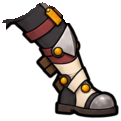
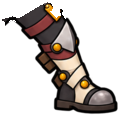
20 네온 브루노 v1.3: 골반 아래 끝 다듬기 — 무릎판 테 토막·금빛 병 토막·계단 정리(라벨만, 대기 그대로)
Claude-Session: https://claude.ai/code/session_011WxNHak8EsK79yqEoeePC7

Changed region(s): [[0.0, 0.0, 0.975, 0.9744], [0.85, 0.9231, 0.975, 0.9744], [0.525, 0.8462, 0.55, 0.8718]]

diff --git a/assets/rig/bruno-neon/rig.def.js b/assets/rig/bruno-neon/rig.def.js
@@ -1,2 +1,2 @@
 // 자동 생성: rig.json을 JS로 감싼 것. 원본은 같은 폴더의 rig.json (source/build_bruno20.py)
-window.MR_RIG_DEFS=window.MR_RIG_DEFS||{};window.MR_RIG_DEFS['bruno-neon']={"name": "bruno-neon", "version": "ff6391c7", "units": "rig px (원화 512 ×2)", "refOrigin": [506.0, 992.0], "refScale": 1.0, "refLift": 0, "parts": {"torso": {"src": "parts/torso.png", "pivot": [77.0, 82.0], "scale": 2.0}, "hips": {"src": "parts/hips.png", "pivot": [56.0, 17.0], "scale": 2.0}, "head": {"src": "parts/head.png", "pivot": [116.0, 164.0], "scale": 2.0}, "pauldron": {"src": "parts/pauldron.png", "pivot": [24.0, 20.0], "scale": 2.0}, "torsoB": {"src": "parts/torsoB.png", "pivot": [-42.0, 40.0], "scale": 2.0}, "armU": {"src": "parts/armU.png", "pivot": [67.0, 24.0], "scale": 2.0, "elbow": [10.0, 16.0]}, "armF": {"src": "parts/armF.png", "pivot": [14.0, 14.0], "scale": 2.0, "elbow": [56.0, 34.0]}, "armL": {"src": "parts/armL.png", "pivot": [23.0, 57.0], "scale": 2.0, "fist": [14.0, -8.0]}, "fistN": {"src": "parts/fistN.png", "pivot": [22.0, 22.0], "scale": 2.0}, "maceN": {"src": "parts/maceN.png", "pivot": [109.0, 222.0], "scale": 2.0}, "foreF": {"src": "parts/foreF.png", "pivot": [13.0, 46.0], "scale": 2.0}, "fistF": {"src": "parts/fistF.png", "pivot": [10.0, 49.0], "scale": 2.0}, "weapon": {"src": "parts/weapon.png", "pivot": [120.0, 470.0], "scale": 1.0, "tip": [120.0, 6.0], "tips": [[20.0, 106.0], [220.0, 106.0]], "guard": [120.0, 199.4], "pommel": [120.0, 505.0]}, "face_happy": {"src": "parts/face_happy.png", "pivot": [116.0, 164.0], "scale": 2.0}, "face_angry": {"src": "parts/face_angry.png", "pivot": [116.0, 164.0], "scale": 2.0}, "face_focus": {"src": "parts/face_focus.png", "pivot": [116.0, 164.0], "scale": 2.0}, "face_shout": {"src": "parts/face_shout.png", "pivot": [116.0, 164.0], "scale": 2.0}, "face_effort": {"src": "parts/face_effort.png", "pivot": [116.0, 164.0], "scale": 2.0}, "face_half": {"src": "parts/face_half.png", "pivot": [116.0, 164.0], "scale": 2.0}, "face_closed": {"src": "parts/face_closed.png", "pivot": [116.0, 164.0], "scale": 2.0}, "bootStandN": {"src": "parts/bootStandN.png", "pivot": [33.0, 89.0], "scale": 2.0}, "bootStandF": {"src": "parts/bootStandF.png", "pivot": [78.0, 88.0], "scale": 2.0}, "bootNRun": {"src": "parts/bootNRun.png", "pivot": [18.2, 18.0], "scale": 2.0}, "bootFRun": {"src": "parts/bootFRun.png", "pivot": [18.2, 16.0], "scale": 2.0}, "thighN": {"src": "parts/thighN.png", "pivot": [0, 0], "scale": 1}, "thighF": {"src": "parts/thighF.png", "pivot": [0, 0], "scale": 1}, "shinN": {"src": "parts/shinN.png", "pivot": [0, 0], "scale": 1}, "shinF": {"src": "parts/shinF.png", "pivot": [0, 0], "scale": 1}, "gF": {"src": "parts/fistF.png", "pivot": [10.0, 49.0], "grip": [22.0, 26.0], "elbow": [10.0, 49.0], "wrist": [10.0, 49.0], "scale": 2.0, "shaftDir": [0.5413, -0.8408], "fore": "foreFa", "foreBone": "foreFb", "foreDir": [-0.3807, 0.9247]}, "foreFa": {"src": "parts/foreF.png", "pivot": [27.0, 12.0], "elbow": [13.0, 46.0], "scale": 2.0}}, "bones": [{"name": "root", "parent": null, "pos": [0, 0]}, {"name": "hip", "parent": "root", "pos": [-2.0, -240.0]}, {"name": "skirt", "parent": "hip", "pos": [0.0, 0.0], "part": "hips"}, {"name": "torso", "parent": "hip", "pos": [0.0, 0.0], "part": "torso"}, {"name": "head", "parent": "torso", "pos": [24.0, -116.0], "part": "head"}, {"name": "armF", "parent": "torso", "pos": [62.0, -92.0], "part": "armF"}, {"name": "foreF", "parent": "armF", "pos": [84.0, 40.0], "part": "foreF"}, {"name": "fistF", "parent": "foreF", "pos": [28.0, -68.0], "part": "fistF"}, {"name": "weapon", "parent": "fistF", "pos": [24.0, -46.0], "rot": 0.572, "part": "weapon"}, {"name": "armU", "parent": "torso", "pos": [-90.0, -124.0], "part": "armU"}, {"name": "armL", "parent": "armU", "pos": [-114.0, -16.0], "rot": 0.3, "part": "armL"}, {"name": "maceN", "parent": "armL", "pos": [-18.0, -130.0], "part": "maceN"}, {"name": "fistN", "parent": "armL", "pos": [-18.0, -130.0], "part": "fistN"}, {"name": "foreFb", "parent": "torso", "pos": [174.0, -120.0]}, {"name": "cape", "parent": "torso", "pos": [24.0, -116.0]}, {"name": "scarf", "parent": "torso", "pos": [24.0, -116.0]}, {"name": "pouch", "parent": "hip", "pos": [0.0, 0.0]}, {"name": "pauldron", "parent": "torso", "pos": [-90.0, -124.0], "part": "pauldron"}, {"name": "pauldronF", "parent": "torso", "pos": [62.0, -92.0]}, {"name": "torsoB", "parent": "torso", "pos": [0.0, 0.0], "part": "torsoB"}], "legs": {"hip": [0, 22.0], "thigh": 96.2, "shin": 96.8, "thighImg": {"part": "thighN", "a": [15.5, 5.0], "b": [15.5, 52.0], "w": 1.0}, "shinImg": {"part": "shinN", "a": [17.0, 10.0], "b": [17.0, 57.0], "w": 1.0}, "boot": {"part": "bootNRun", "sole": [[-16.2, 29.0], [-4.2, 29.0], [9.8, 30.0], [24.8, 31.0], [36.8, 29.0]], "ankleRange": [-1.2, 1.4], "runLock": 0.0}, "near": {"x": -128.0, "hipX": -48.0, "runX": -48.0, "shade": 0, "thighImg": {"part": "thighN", "a": [15.5, 5.0], "b": [15.5, 52.0], "w": 1.0}, "shinImg": {"part": "shinN", "a": [17.0, 10.0], "b": [17.0, 57.0], "w": 1.0}, "runBoot": "bootNRun", "stand": {"fade": [0.05, 0.1], "thighImg": {"part": "thighN", "a": [15.5, 5.0], "b": [15.5, 52.0], "w": 0.001}, "shinImg": {"part": "shinN", "a": [17.0, 10.0], "b": [17.0, 57.0], "w": 0.001}, "boot": {"part": "bootStandN", "sole": [[-29.0, 28.0], [-18.0, 31.0], [-13.0, 31.0], [40.0, -32.0], [56.0, -54.0]]}}}, "far": {"x": 132.0, "hipX": 32.0, "runX": 32.0, "shade": 0, "thighImg": {"part": "thighF", "a": [14.5, 8.0], "b": [14.5, 55.0], "w": 1.0}, "shinImg": {"part": "shinF", "a": [16.5, 11.0], "b": [16.5, 58.0], "w": 1.0}, "runBoot": "bootFRun", "stand": {"fade": [0.05, 0.1], "thighImg": {"part": "thighF", "a": [14.5, 8.0], "b": [14.5, 55.0], "w": 0.001}, "shinImg": {"part": "shinF", "a": [16.5, 11.0], "b": [16.5, 58.0], "w": 0.001}, "boot": {"part": "bootStandF", "sole": [[-70.0, -61.0], [-50.0, -47.0], [13.0, 29.0], [18.0, 29.0], [38.0, 26.0]]}}}}, "draw": ["legFar", "legNear", "torsoB", "armF", "foreF", "skirt", "torso", "armU", "pauldron", "weapon", "fistF", "head", "maceN", "armL", "fistN"], "hidden": [], "faces": {"happy": "face_happy", "angry": "face_angry", "focus": "face_focus", "shout": "face_shout", "effort": "face_effort"}, "blinkFaces": {"half": "face_half", "closed": "face_closed"}, "gait": {"stance": 0.26, "strideBase": 40, "strideK": 0.12, "hipBase": 6, "bob": 8, "lean": 0.1, "headBob": 3, "kneeLift": 0.7, "heelKick": 0.5, "dropCap": 16, "swingReach": 0.05, "landAng": -0.04, "elbowRun": 0.12, "armSwing": 0.06, "armBias": 0.0, "headRun": 0.05}, "carrySwing": 0.15, "wristRange": 0.2, "dropLift": 8, "bounce": [], "metrics": {"bodyHeight": 678, "note": "rig units; 상투 위(y157)~발바닥(496) ×2, 철퇴 제외"}, "ui": {"attack": "smash", "touch": "hop"}, "swordGrip": {"tipDepth": 6, "near": {"upper": "armF", "carry": "gF", "pieces": []}, "far": {"upper": "armU", "pieces": ["armL"], "sPref": 0}, "stretchMax": 1.05, "shoulderPush": 0}, "drawA": ["legFar", "legNear", "torsoB", "armF", "foreFb", "skirt", "torso", "armU", "pauldron", "weapon", "foreF", "head", "maceN", "armL", "fistN"], "actions": {"smash": {"kind": "sword", "rigid": true, "orderAlways": true, "dur": 1.0, "hitAt": 0.28, "hitStop": 0.05, "cancelAt": 0.8, "w": [[0, 1]], "reach": [[0, 0]], "nPiece": [[0, "gF"]], "nUpper": [[0, "armF"]], "armIK": [[0, 1]], "ikSideK": {"N": [[0, 1]]}, "gx": [[0.0, 198.0, "io"], [0.1, 176.0, "io"], [0.19, 163.0, "io"], [0.2, 160.84, "io"], [0.28, 150.0, "io"], [0.34, 118.0, "io"], [0.36, 102.6, "io"], [0.4, 86.0, "io"], [0.42, 115.34, "io"], [0.47, 234.0, "io"], [0.48, 234.66, "io"], [0.5, 238.72, "io"], [0.54, 246.0, "io"], [0.62, 242.42, "io"], [0.64, 242.0, "io"], [0.8, 220.5, "io"], [0.84, 218.0, "io"], [1.0, 198.0, "io"]], "gy": [[0.0, -166.0, "io"], [0.1, -170.0, "io"], [0.19, -198.94, "io"], [0.2, -203.48, "io"], [0.28, -234.0, "io"], [0.34, -234.62, "io"], [0.36, -235.92, "io"], [0.4, -235.04, "io"], [0.42, -218.94, "io"], [0.47, -165.4, "io"], [0.48, -156.48, "io"], [0.5, -100.38, "io"], [0.54, -2.0, "io"], [0.62, -5.58, "io"], [0.64, -6.0, "io"], [0.8, -117.1, "io"], [0.84, -130.0, "io"], [1.0, -166.0, "io"]], "sa": [[0.0, -0.9989, "io"], [0.1, -1.117, "io"], [0.19, -1.3265, "io"], [0.2, -1.3612, "io"], [0.28, -1.5359, "io"], [0.34, -1.7453, "io"], [0.36, -1.8462, "io"], [0.4, -1.9548, "io"], [0.42, -1.723, "io"], [0.47, -0.7854, "io"], [0.48, -0.7283, "io"], [0.5, -0.3801, "io"], [0.54, 0.2443, "io"], [0.62, 0.2601, "io"], [0.64, 0.2618, "io"], [0.8, -0.6295, "io"], [0.84, -0.733, "io"], [1.0, -0.9989, "io"]], "lean": [[0.0, 0.0, "io"], [0.1, -0.06, "io"], [0.19, 0.0372, "io"], [0.2, 0.04, "io"], [0.28, 0.14, "io"], [0.34, 0.0894, "io"], [0.36, 0.08, "io"], [0.4, 0.0059, "io"], [0.42, -0.02, "io"], [0.47, 0.0726, "io"], [0.48, 0.08, "io"], [0.5, 0.1059, "io"], [0.54, 0.18, "io"], [0.62, 0.1262, "io"], [0.64, 0.12, "io"], [0.8, 0.0304, "io"], [0.84, 0.02, "io"], [1.0, 0.0, "io"]], "hipY": [[0.0, 0.0, "io"], [0.1, 6.0, "io"], [0.19, 7.94, "io"], [0.2, 8.0, "io"], [0.28, 16.0, "io"], [0.34, 12.62, "io"], [0.36, 12.0, "io"], [0.4, 9.04, "io"], [0.42, 8.0, "io"], [0.47, 15.4, "io"], [0.48, 16.0, "io"], [0.5, 18.08, "io"], [0.54, 24.0, "io"], [0.62, 20.42, "io"], [0.64, 20.0, "io"], [0.8, 5.66, "io"], [0.84, 4.0, "io"], [1.0, 0.0, "io"]], "head": [[0, 0], [0.1, -0.05, "io"], [0.28, 0.06, "io"], [0.4, -0.03, "io"], [0.54, 0.07, "io"], [0.8, 0]], "freeArm": true, "fuA": [[0.0, 0.0, "io"], [0.1, -0.1143, "io"], [0.19, 0.155, "io"], [0.2, 0.0756, "io"], [0.28, -2.1818, "io"], [0.34, -2.0963, "io"], [0.36, -1.5394, "io"], [0.4, 0.099, "io"], [0.42, 0.1231, "io"], [0.47, 0.0186, "io"], [0.48, 0.0093, "io"], [0.5, -0.0185, "io"], [0.54, -0.1152, "io"], [0.62, -0.1261, "io"], [0.64, -0.1207, "io"], [0.8, -0.0564, "io"], [0.84, -0.0433, "io"], [1.0, 0.0, "io"]], "flA": [[0.0, 0.0, "io"], [0.1, -0.3838, "io"], [0.19, 0.3318, "io"], [0.2, 0.4575, "io"], [0.28, 3.997, "io"], [0.34, 3.997, "io"], [0.36, 3.0694, "io"], [0.4, 0.4191, "io"], [0.42, 0.3882, "io"], [0.47, 0.1864, "io"], [0.48, 0.1532, "io"], [0.5, 0.1223, "io"], [0.54, 0.0816, "io"], [0.62, -0.0347, "io"], [0.64, -0.0362, "io"], [0.8, -0.0784, "io"], [0.84, -0.0702, "io"], [1.0, 0.0, "io"]], "face": [[0, "angry"], [0.24, "shout"], [0.38, "angry"], [0.5, "shout"], [0.7, "focus"], [0.9, null]], "order": [[0, "drawA"]], "nearLift": [[0, 0], [0.03, 0, "io"], [0.09, 10, "io"], [0.15, 0]], "farLift": [[0, 0], [0.17, 0, "io"], [0.23, 10, "io"], [0.29, 0]], "aDamp": 9, "standStep": true}}, "cutHold": 0.1, "gameRef": {"refOrigin": [259.5, 496.0], "refScale": 2.0, "refLift": 0, "note": "게임 그림 char_0020.png(512) = 0번 합격 원화(ref512). x = 도감 칸(fitArt 중심 258.5, index.html measureBox 와 같은 계산)에서 골반(hip x 252)이 가운데"}, "note": "20 네온 브루노 v1(대기·달리기·번갈아 내려찍기). 10 러스트 브루노 v1.2 구조. 조각 = 원화를 부품별로 나눔(seg20.py) + 가려진 곳 = 팔·철퇴만 지운 원화(프롬프트 2·3: sheets/nonear_0614·nofar_0623), 시트 = 표정·깜빡임·달리는 다리·부츠·철퇴 자루 끝"};
+window.MR_RIG_DEFS=window.MR_RIG_DEFS||{};window.MR_RIG_DEFS['bruno-neon']={"name": "bruno-neon", "version": "23d59932", "units": "rig px (원화 512 ×2)", "refOrigin": [506.0, 992.0], "refScale": 1.0, "refLift": 0, "parts": {"torso": {"src": "parts/torso.png", "pivot": [77.0, 82.0], "scale": 2.0}, "hips": {"src": "parts/hips.png", "pivot": [57.0, 17.0], "scale": 2.0}, "head": {"src": "parts/head.png", "pivot": [116.0, 164.0], "scale": 2.0}, "pauldron": {"src": "parts/pauldron.png", "pivot": [24.0, 20.0], "scale": 2.0}, "torsoB": {"src": "parts/torsoB.png", "pivot": [-42.0, 40.0], "scale": 2.0}, "armU": {"src": "parts/armU.png", "pivot": [67.0, 24.0], "scale": 2.0, "elbow": [10.0, 16.0]}, "armF": {"src": "parts/armF.png", "pivot": [14.0, 14.0], "scale": 2.0, "elbow": [56.0, 34.0]}, "armL": {"src": "parts/armL.png", "pivot": [23.0, 57.0], "scale": 2.0, "fist": [14.0, -8.0]}, "fistN": {"src": "parts/fistN.png", "pivot": [22.0, 22.0], "scale": 2.0}, "maceN": {"src": "parts/maceN.png", "pivot": [109.0, 222.0], "scale": 2.0}, "foreF": {"src": "parts/foreF.png", "pivot": [13.0, 46.0], "scale": 2.0}, "fistF": {"src": "parts/fistF.png", "pivot": [10.0, 49.0], "scale": 2.0}, "weapon": {"src": "parts/weapon.png", "pivot": [120.0, 470.0], "scale": 1.0, "tip": [120.0, 6.0], "tips": [[20.0, 106.0], [220.0, 106.0]], "guard": [120.0, 199.4], "pommel": [120.0, 505.0]}, "face_happy": {"src": "parts/face_happy.png", "pivot": [116.0, 164.0], "scale": 2.0}, "face_angry": {"src": "parts/face_angry.png", "pivot": [116.0, 164.0], "scale": 2.0}, "face_focus": {"src": "parts/face_focus.png", "pivot": [116.0, 164.0], "scale": 2.0}, "face_shout": {"src": "parts/face_shout.png", "pivot": [116.0, 164.0], "scale": 2.0}, "face_effort": {"src": "parts/face_effort.png", "pivot": [116.0, 164.0], "scale": 2.0}, "face_half": {"src": "parts/face_half.png", "pivot": [116.0, 164.0], "scale": 2.0}, "face_closed": {"src": "parts/face_closed.png", "pivot": [116.0, 164.0], "scale": 2.0}, "bootStandN": {"src": "parts/bootStandN.png", "pivot": [33.0, 82.0], "scale": 2.0}, "bootStandF": {"src": "parts/bootStandF.png", "pivot": [77.0, 84.0], "scale": 2.0}, "bootNRun": {"src": "parts/bootNRun.png", "pivot": [18.2, 18.0], "scale": 2.0}, "bootFRun": {"src": "parts/bootFRun.png", "pivot": [18.2, 16.0], "scale": 2.0}, "thighN": {"src": "parts/thighN.png", "pivot": [0, 0], "scale": 1}, "thighF": {"src": "parts/thighF.png", "pivot": [0, 0], "scale": 1}, "shinN": {"src": "parts/shinN.png", "pivot": [0, 0], "scale": 1}, "shinF": {"src": "parts/shinF.png", "pivot": [0, 0], "scale": 1}, "gF": {"src": "parts/fistF.png", "pivot": [10.0, 49.0], "grip": [22.0, 26.0], "elbow": [10.0, 49.0], "wrist": [10.0, 49.0], "scale": 2.0, "shaftDir": [0.5413, -0.8408], "fore": "foreFa", "foreBone": "foreFb", "foreDir": [-0.3807, 0.9247]}, "foreFa": {"src": "parts/foreF.png", "pivot": [27.0, 12.0], "elbow": [13.0, 46.0], "scale": 2.0}}, "bones": [{"name": "root", "parent": null, "pos": [0, 0]}, {"name": "hip", "parent": "root", "pos": [-2.0, -240.0]}, {"name": "skirt", "parent": "hip", "pos": [0.0, 0.0], "part": "hips"}, {"name": "torso", "parent": "hip", "pos": [0.0, 0.0], "part": "torso"}, {"name": "head", "parent": "torso", "pos": [24.0, -116.0], "part": "head"}, {"name": "armF", "parent": "torso", "pos": [62.0, -92.0], "part": "armF"}, {"name": "foreF", "parent": "armF", "pos": [84.0, 40.0], "part": "foreF"}, {"name": "fistF", "parent": "foreF", "pos": [28.0, -68.0], "part": "fistF"}, {"name": "weapon", "parent": "fistF", "pos": [24.0, -46.0], "rot": 0.572, "part": "weapon"}, {"name": "armU", "parent": "torso", "pos": [-90.0, -124.0], "part": "armU"}, {"name": "armL", "parent": "armU", "pos": [-114.0, -16.0], "rot": 0.3, "part": "armL"}, {"name": "maceN", "parent": "armL", "pos": [-18.0, -130.0], "part": "maceN"}, {"name": "fistN", "parent": "armL", "pos": [-18.0, -130.0], "part": "fistN"}, {"name": "foreFb", "parent": "torso", "pos": [174.0, -120.0]}, {"name": "cape", "parent": "torso", "pos": [24.0, -116.0]}, {"name": "scarf", "parent": "torso", "pos": [24.0, -116.0]}, {"name": "pouch", "parent": "hip", "pos": [0.0, 0.0]}, {"name": "pauldron", "parent": "torso", "pos": [-90.0, -124.0], "part": "pauldron"}, {"name": "pauldronF", "parent": "torso", "pos": [62.0, -92.0]}, {"name": "torsoB", "parent": "torso", "pos": [0.0, 0.0], "part": "torsoB"}], "legs": {"hip": [0, 22.0], "thigh": 96.2, "shin": 96.8, "thighImg": {"part": "thighN", "a": [15.5, 5.0], "b": [15.5, 52.0], "w": 1.0}, "shinImg": {"part": "shinN", "a": [17.0, 10.0], "b": [17.0, 57.0], "w": 1.0}, "boot": {"part": "bootNRun", "sole": [[-16.2, 29.0], [-4.2, 29.0], [9.8, 30.0], [24.8, 31.0], [36.8, 29.0]], "ankleRange": [-1.2, 1.4], "runLock": 0.0}, "near": {"x": -128.0, "hipX": -48.0, "runX": -48.0, "shade": 0, "thighImg": {"part": "thighN", "a": [15.5, 5.0], "b": [15.5, 52.0], "w": 1.0}, "shinImg": {"part": "shinN", "a": [17.0, 10.0], "b": [17.0, 57.0], "w": 1.0}, "runBoot": "bootNRun", "stand": {"fade": [0.05, 0.1], "thighImg": {"part": "thighN", "a": [15.5, 5.0], "b": [15.5, 52.0], "w": 0.001}, "shinImg": {"part": "shinN", "a": [17.0, 10.0], "b": [17.0, 57.0], "w": 0.001}, "boot": {"part": "bootStandN", "sole": [[-29.0, 28.0], [-18.0, 31.0], [-13.0, 31.0], [40.0, -32.0], [56.0, -54.0]]}}}, "far": {"x": 132.0, "hipX": 32.0, "runX": 32.0, "shade": 0, "thighImg": {"part": "thighF", "a": [14.5, 8.0], "b": [14.5, 55.0], "w": 1.0}, "shinImg": {"part": "shinF", "a": [16.5, 11.0], "b": [16.5, 58.0], "w": 1.0}, "runBoot": "bootFRun", "stand": {"fade": [0.05, 0.1], "thighImg": {"part": "thighF", "a": [14.5, 8.0], "b": [14.5, 55.0], "w": 0.001}, "shinImg": {"part": "shinF", "a": [16.5, 11.0], "b": [16.5, 58.0], "w": 0.001}, "boot": {"part": "bootStandF", "sole": [[-70.0, -61.0], [-50.0, -47.0], [13.0, 29.0], [18.0, 29.0], [38.0, 26.0]]}}}}, "draw": ["legFar", "legNear", "torsoB", "armF", "foreF", "skirt", "torso", "armU", "pauldron", "weapon", "fistF", "head", "maceN", "armL", "fistN"], "hidden": [], "faces": {"happy": "face_happy", "angry": "face_angry", "focus": "face_focus", "shout": "face_shout", "effort": "face_effort"}, "blinkFaces": {"half": "face_half", "closed": "face_closed"}, "gait": {"stance": 0.26, "strideBase": 40, "strideK": 0.12, "hipBase": 6, "bob": 8, "lean": 0.1, "headBob": 3, "kneeLift": 0.7, "heelKick": 0.5, "dropCap": 16, "swingReach": 0.05, "landAng": -0.04, "elbowRun": 0.12, "armSwing": 0.06, "armBias": 0.0, "headRun": 0.05}, "carrySwing": 0.15, "wristRange": 0.2, "dropLift": 8, "bounce": [], "metrics": {"bodyHeight": 678, "note": "rig units; 상투 위(y157)~발바닥(496) ×2, 철퇴 제외"}, "ui": {"attack": "smash", "touch": "hop"}, "swordGrip": {"tipDepth": 6, "near": {"upper": "armF", "carry": "gF", "pieces": []}, "far": {"upper": "armU", "pieces": ["armL"], "sPref": 0}, "stretchMax": 1.05, "shoulderPush": 0}, "drawA": ["legFar", "legNear", "torsoB", "armF", "foreFb", "skirt", "torso", "armU", "pauldron", "weapon", "foreF", "head", "maceN", "armL", "fistN"], "actions": {"smash": {"kind": "sword", "rigid": true, "orderAlways": true, "dur": 1.0, "hitAt": 0.28, "hitStop": 0.05, "cancelAt": 0.8, "w": [[0, 1]], "reach": [[0, 0]], "nPiece": [[0, "gF"]], "nUpper": [[0, "armF"]], "armIK": [[0, 1]], "ikSideK": {"N": [[0, 1]]}, "gx": [[0.0, 198.0, "io"], [0.1, 176.0, "io"], [0.19, 163.0, "io"], [0.2, 160.84, "io"], [0.28, 150.0, "io"], [0.34, 118.0, "io"], [0.36, 102.6, "io"], [0.4, 86.0, "io"], [0.42, 115.34, "io"], [0.47, 234.0, "io"], [0.48, 234.66, "io"], [0.5, 238.72, "io"], [0.54, 246.0, "io"], [0.62, 242.42, "io"], [0.64, 242.0, "io"], [0.8, 220.5, "io"], [0.84, 218.0, "io"], [1.0, 198.0, "io"]], "gy": [[0.0, -166.0, "io"], [0.1, -170.0, "io"], [0.19, -198.94, "io"], [0.2, -203.48, "io"], [0.28, -234.0, "io"], [0.34, -234.62, "io"], [0.36, -235.92, "io"], [0.4, -235.04, "io"], [0.42, -218.94, "io"], [0.47, -165.4, "io"], [0.48, -156.48, "io"], [0.5, -100.38, "io"], [0.54, -2.0, "io"], [0.62, -5.58, "io"], [0.64, -6.0, "io"], [0.8, -117.1, "io"], [0.84, -130.0, "io"], [1.0, -166.0, "io"]], "sa": [[0.0, -0.9989, "io"], [0.1, -1.117, "io"], [0.19, -1.3265, "io"], [0.2, -1.3612, "io"], [0.28, -1.5359, "io"], [0.34, -1.7453, "io"], [0.36, -1.8462, "io"], [0.4, -1.9548, "io"], [0.42, -1.723, "io"], [0.47, -0.7854, "io"], [0.48, -0.7283, "io"], [0.5, -0.3801, "io"], [0.54, 0.2443, "io"], [0.62, 0.2601, "io"], [0.64, 0.2618, "io"], [0.8, -0.6295, "io"], [0.84, -0.733, "io"], [1.0, -0.9989, "io"]], "lean": [[0.0, 0.0, "io"], [0.1, -0.06, "io"], [0.19, 0.0372, "io"], [0.2, 0.04, "io"], [0.28, 0.14, "io"], [0.34, 0.0894, "io"], [0.36, 0.08, "io"], [0.4, 0.0059, "io"], [0.42, -0.02, "io"], [0.47, 0.0726, "io"], [0.48, 0.08, "io"], [0.5, 0.1059, "io"], [0.54, 0.18, "io"], [0.62, 0.1262, "io"], [0.64, 0.12, "io"], [0.8, 0.0304, "io"], [0.84, 0.02, "io"], [1.0, 0.0, "io"]], "hipY": [[0.0, 0.0, "io"], [0.1, 6.0, "io"], [0.19, 7.94, "io"], [0.2, 8.0, "io"], [0.28, 16.0, "io"], [0.34, 12.62, "io"], [0.36, 12.0, "io"], [0.4, 9.04, "io"], [0.42, 8.0, "io"], [0.47, 15.4, "io"], [0.48, 16.0, "io"], [0.5, 18.08, "io"], [0.54, 24.0, "io"], [0.62, 20.42, "io"], [0.64, 20.0, "io"], [0.8, 5.66, "io"], [0.84, 4.0, "io"], [1.0, 0.0, "io"]], "head": [[0, 0], [0.1, -0.05, "io"], [0.28, 0.06, "io"], [0.4, -0.03, "io"], [0.54, 0.07, "io"], [0.8, 0]], "freeArm": true, "fuA": [[0.0, 0.0, "io"], [0.1, -0.1143, "io"], [0.19, 0.155, "io"], [0.2, 0.0756, "io"], [0.28, -2.1818, "io"], [0.34, -2.0963, "io"], [0.36, -1.5394, "io"], [0.4, 0.099, "io"], [0.42, 0.1231, "io"], [0.47, 0.0186, "io"], [0.48, 0.0093, "io"], [0.5, -0.0185, "io"], [0.54, -0.1152, "io"], [0.62, -0.1261, "io"], [0.64, -0.1207, "io"], [0.8, -0.0564, "io"], [0.84, -0.0433, "io"], [1.0, 0.0, "io"]], "flA": [[0.0, 0.0, "io"], [0.1, -0.3838, "io"], [0.19, 0.3318, "io"], [0.2, 0.4575, "io"], [0.28, 3.997, "io"], [0.34, 3.997, "io"], [0.36, 3.0694, "io"], [0.4, 0.4191, "io"], [0.42, 0.3882, "io"], [0.47, 0.1864, "io"], [0.48, 0.1532, "io"], [0.5, 0.1223, "io"], [0.54, 0.0816, "io"], [0.62, -0.0347, "io"], [0.64, -0.0362, "io"], [0.8, -0.0784, "io"], [0.84, -0.0702, "io"], [1.0, 0.0, "io"]], "face": [[0, "angry"], [0.24, "shout"], [0.38, "angry"], [0.5, "shout"], [0.7, "focus"], [0.9, null]], "order": [[0, "drawA"]], "nearLift": [[0, 0], [0.03, 0, "io"], [0.09, 10, "io"], [0.15, 0]], "farLift": [[0, 0], [0.17, 0, "io"], [0.23, 10, "io"], [0.29, 0]], "aDamp": 9, "standStep": true}}, "cutHold": 0.1, "gameRef": {"refOrigin": [259.5, 496.0], "refScale": 2.0, "refLift": 0, "note": "게임 그림 char_0020.png(512) = 0번 합격 원화(ref512). x = 도감 칸(fitArt 중심 258.5, index.html measureBox 와 같은 계산)에서 골반(hip x 252)이 가운데"}, "note": "20 네온 브루노 v1(대기·달리기·번갈아 내려찍기). 10 러스트 브루노 v1.2 구조. 조각 = 원화를 부품별로 나눔(seg20.py) + 가려진 곳 = 팔·철퇴만 지운 원화(프롬프트 2·3: sheets/nonear_0614·nofar_0623), 시트 = 표정·깜빡임·달리는 다리·부츠·철퇴 자루 끝"};

diff --git a/assets/rig/bruno-neon/source/build_bruno20.py b/assets/rig/bruno-neon/source/build_bruno20.py
@@ -1,4 +1,4 @@
-"""20 네온 브루노 리그 조립 v1.2(달리기 부츠 발목 점 = 원화 발목 높이 · 달리기 다리일 때 발목 고정 boot.runLock) — 10 러스트 브루노 v1.2(build_bruno10) 구조, 공격 = 번갈아 내려찍기(tools/plan_alt20.py)
+"""20 네온 브루노 리그 조립 v1.3(달리기 부츠 발목 점 = 원화 발목 높이 · 달리기 다리일 때 발목 고정 boot.runLock · 골반 아래 끝 다듬기) — 10 러스트 브루노 v1.2(build_bruno10) 구조, 공격 = 번갈아 내려찍기(tools/plan_alt20.py)
 입력: ref512.png(0번 합격 원화 = 게임 char_0020) · sheets/nonear_0614.png·nofar_0623.png(팔·철퇴만 지운 원화) · work/labels.npy(seg20.py) · pieces/(조각 시트 19칸, cut20.py) · measure20.json · review/plan_alt20.json
 출력: ../rig.json · ../rig.def.js · ../parts/*.png
 실행: cd source && python3 -I cut20.py && python3 -I seg20.py && python3 -I tools/plan_alt20.py && python3 -I build_bruno20.py
@@ -24,6 +24,51 @@ def desp(a):
 def sheet(n): return desp(np.array(Image.open(os.path.join(PC, n + '.png')).convert('RGBA')))
 def art(mask): a = RA.copy(); a[..., 3] = np.where(mask, a[..., 3], 0); return a
 def dil(m, r): return cv2.dilate(m.astype(np.uint8), cv2.getStructuringElement(cv2.MORPH_ELLIPSE, (2 * r + 1, 2 * r + 1))) > 0
+# ---------------- 골반 아래 끝 다듬기 (DHL v1.2 검수: 달릴 때 골반 아래가 덜 잘림) ----------------
+#   골반 라벨 아래 끝이 가까운 무릎판 테 윗부분(회색 + 밝은 윗가장자리)과 먼 허리 금빛 병 윗부분을 가로질러, 달리면 골반에 회색 쐐기·밝은 점선·금 줄이 남았음
+#   ① 가까운 무릎판 테: 골반 라벨의 회색(밝기 ≥ 80 · 채도 < 30, x < 240 · y ≥ 388) → 가까운 다리, 그 칸 아래(테 윗선 밑)도 다리로 — 테 윗선 위 어두운 외곽선은 골반에 남아 골반 아래 끝 선이 됨
+#   ② 먼 허리 금빛 병(허리띠에 달린 것): 금빛 덩어리 + 둘레 어두운 외곽선 → 골반 통째(달리면 허리에 매달림)
+def _fix_hips():
+    lum = RA[..., :3].astype(int).mean(-1); sat = RA[..., :3].max(-1).astype(int) - RA[..., :3].min(-1); H, N_, F_ = LID['hips'], LID['legN'], LID['legF']
+    g = (LAB == H) & (lum >= 80) & (sat < 30) & (XX < 240) & (YY >= 388) & (RA[..., 3] > 128)
+    n1 = int(g.sum()); LAB[g] = N_; n2 = 0
+    for x in range(180, 240):
+        ys_ = np.nonzero(g[:, x])[0]
+        if len(ys_): col = (LAB[:, x] == H) & (np.arange(512) > ys_.min()); n2 += int(col.sum()); LAB[col, x] = N_
+    gold = (RA[..., 0] > 140) & (RA[..., 1] > 60) & (RA[..., 2] < 70) & (RA[..., 0].astype(int) - RA[..., 2] > 100) & (XX >= 278) & (XX <= 310) & (YY >= 378) & (YY <= 412)
+    nc, cc = cv2.connectedComponents(gold.astype(np.uint8), 8); big = np.zeros_like(gold)
+    for i in range(1, nc):
+        if (cc == i).sum() >= 30: big |= cc == i
+    vial = (big | (dil(big, 2) & (lum < 60))) & ((LAB == F_) | (LAB == H)); n3 = int((vial & (LAB != H)).sum()); LAB[vial] = H
+    # ③ 골반 아래 끝 = 정한 선 c(x)(그 위 = 골반, 아래 = 다리): 가까운 쪽은 무릎판 테 윗선(원화 외곽선이 골반 아래 끝 선) · 가랑이는 원화 실루엣 아래 끝(가랑이 V 외곽선까지) ·
+    #    그 사이(가까운 테 오른쪽 ~ 가랑이, 가랑이 ~ 먼 허벅지)는 곧은 선 — 바지를 가로지르는 곳이라 2줄 옅게(달리면 시트 허벅지 위에 부드럽게)
+    op = RA[..., 3] >= 128; gr = (lum >= 80) & (sat < 30) & (RA[..., 3] > 200)
+    def gtop(x): ys_ = np.nonzero(gr[386:410, x])[0]; return 386 + int(ys_.min()) if len(ys_) else None
+    def sil(x): ys_ = np.nonzero(~op[390:425, x])[0]; return 390 + int(ys_.min()) if len(ys_) else None
+    c = {}
+    for x in range(190, 200): c[x] = 396
+    for x in range(200, 232): g_ = gtop(x); c[x] = g_ if g_ is not None and g_ < 402 else 398
+    for x in range(232, 246): c[x] = 398 + (x - 232) * (405 - 398) / 14.0
+    for x in range(246, 259): c[x] = float(min(sil(x) or 405, 405))   # 가랑이 V 꼭짓점 외곽선까지만(V 팔 외곽선은 다리)
+    for x in range(259, 285): c[x] = 406 + (x - 259) * (391 - 406) / 25.0
+    n4 = n5 = 0; col = np.arange(512)
+    for x, v in c.items():
+        yb = int(np.ceil(v)) - 1   # yb 까지 골반
+        dn = (LAB[:, x] == H) & (col > yb) & (col <= 415); LAB[dn, x] = N_ if x < 252 else F_; n4 += int(dn.sum())
+        up = ((LAB[:, x] == N_) | (LAB[:, x] == F_)) & (col <= yb) & (col >= 372) & ~gr[:, x] & (RA[:, x, 3] > 0); LAB[up, x] = H; n5 += int(up.sum())
+        if 232 <= x < 246 or 259 <= x < 285: CUT[x] = yb
+    # ④ 골반 아래쪽(y ≥ 388)의 가는 외곽선 꼬리(폭 ≤ 2px — 테 왼쪽 끝·가랑이 V 팔·먼 허벅지 바깥 선 토막) → 다리
+    Hm = (LAB == H).astype(np.uint8); opn = cv2.morphologyEx(Hm, cv2.MORPH_OPEN, np.ones((3, 3), np.uint8)) > 0
+    tail = (LAB == H) & ~opn & (YY >= 388) & (XX >= 186) & (XX <= 312) & ~(dil(big, 1))
+    tail |= (LAB == H) & (XX <= 203) & (YY >= 393) & (YY <= 402)   # 쌈지 왼쪽 아래 = 무릎판 테 왼쪽 모서리 윗선(달리면 쌈지 밑 갈고리)
+    n6 = int(tail.sum()); LAB[tail & (XX < 252)] = N_; LAB[tail & (XX >= 252)] = F_
+    for x in list(CUT):
+        ys_ = np.nonzero(LAB[:, x] == H)[0]; ys_ = ys_[ys_ >= 380]
+        if len(ys_): CUT[x] = int(ys_.max())
+        else: CUT.pop(x)
+    print('  골반 다듬기: 무릎판 테 회색 → 다리', n1, '· 테 밑 칸', n2, '· 금빛 병 → 골반', n3, '· 아래 끝 선 골반→다리', n4, '다리→골반', n5, '· 가는 꼬리 → 다리', n6, '· 옅게 열', len(CUT))
+CUT = {}
+_fix_hips()
 OFF = {}
 def despeck(a, minpx=14):   # 조각에서 떨어진 작은 점(라벨 경계에 남은 외곽선 부스러기) 지움
     n, cc, st, _ = cv2.connectedComponentsWithStats((a[..., 3] > 0).astype(np.uint8), 8); a = a.copy()
@@ -195,7 +240,10 @@ def underlay(a, back_m, front_m, r=4):
     band = front_m & dil(back_m, r) & (RA[..., 3] >= 250) & (a[..., 3] == 0); a = a.copy(); a[band] = RA[band]; return a, int(band.sum())
 head_m = lab('head'); hd = with_reveal('head'); o_head = save('head', hd)
 tr, _n2 = underlay(with_reveal('torso'), lab('torso'), head_m | lab('pauldN')); o_tor = save('torso', tr)
-_hp, _n3 = underlay(with_reveal('hips'), lab('hips'), lab('torso')); o_hips = save('hips', _hp)
+_hp, _n3 = underlay(with_reveal('hips'), lab('hips'), lab('torso'))
+for _x, _y in CUT.items():   # 바지를 가로지른 골반 아래 끝 2줄 옅게(대기엔 같은 원화 다리 위라 그대로, 달리면 시트 허벅지 위로 부드럽게)
+    _hp[_y, _x, 3] = (_hp[_y, _x, 3] * 0.45).astype(np.uint8); _hp[_y - 1, _x, 3] = (_hp[_y - 1, _x, 3] * 0.8).astype(np.uint8)
+o_hips = save('hips', _hp)
 o_pd = save('pauldron', with_reveal('pauldN'))
 print('  이음 밑 덧칠 px: 상체←머리·어깨갑', _n2, '· 골반←상체', _n3)
 BACKB = {}

diff --git a/assets/rig/bruno-neon/STATUS.md b/assets/rig/bruno-neon/STATUS.md
@@ -93,3 +93,9 @@
 - 보이는 차이: 디딘 발이 정강이 기울기만큼 발끝으로 서서(뒤꿈치 듦) 달림 — 착지 때 뒤꿈치, 차고 나갈 때 발끝
 - 편집 툴 v166(버전 1792538879-fe79): '20 네온 브루노 v1.2' · rig.js?v=20261021r5(살아 있던 rig.js = 저장소 바꾸기 전 b56ce4fc 확인 → dc5001c3) · rig.def.js?v=ff6391c7 · 파일 511/511 그대로 · 비교 그림은 n20T 패널 data URI
 - 게임(index.html)의 rig.js 캐시 키는 아직 그대로 — runLock 은 네온 브루노만 쓰고 네온 브루노는 아직 게임에 없음. 게임에 넣을 때 rig.js?v 도 같이 올림
+
+## 09:17 (10-21) v1.3 — 골반 아래 끝 다듬기(DHL 09:06 "표시 부분의 이미지가 덜 잘린 것 같아요, 확인해서 잘라 주세요" — 달리기 27.62초 골반 아래 끝 전체에 빨간 줄)
+- 원인(라벨): 골반 라벨 아래 끝(seg ALLOW y < 402)이 ①가까운 무릎판 테 윗부분(회색 + 밝은 윗가장자리)을 가로질러 달리면 쌈지 밑에 회색 쐐기·밝은 점선 ②먼 허리 금빛 병을 가로질러 위 토막만 골반에(금 줄) ③가랑이·먼 허벅지 바지를 가로로 잘라 계단·외곽선 꼬리
+- 고침(`build_bruno20.py` `_fix_hips`, 라벨만 — 원화 픽셀 그대로): ①테 회색(68px) + 그 밑 칸 → 가까운 다리 — 테 윗선 위 어두운 외곽선은 골반에 남아 골반 아래 끝 선이 됨 ②금빛 병 통째(155px) → 골반(허리에 매달림) ③아래 끝 선 c(x) = 가까운 쪽 테 윗선 · 가랑이 V 꼭짓점 외곽선(y ≤ 405) · 그 사이와 먼 허벅지 쪽은 곧은 선(바지를 가로지르는 40열은 아래 2줄 옅게 — 달리면 시트 허벅지 위로 부드럽게) ④폭 ≤ 2px 외곽선 꼬리·쌈지 왼쪽 아래 갈고리 → 다리
+- 확인: 대기 = 원화(숨쉬기 처음 차 1.29 · 차 > 60 = 710 그대로 — 옮긴 픽셀은 서 있는 원화 다리 그림에 들어가 대기 그대로) · 틈 대기 1,092~1,487 · 달리기 927~1,678(전과 같은 수준) · 달리다 공격 .1~.4 확대
+- 처음 시험(버림): 다리 뒤 골반 밑 조각(hipsU, 바지 색 + 아래 외곽선)을 더해 봤는데 라벨 모양을 따라 아래 끝이 들쭉날쭉 + 앞 조각 외곽선과 두 줄 → 뺌. 선을 원화 외곽선(테 윗선·가랑이)에 맞추는 쪽이 깨끗
